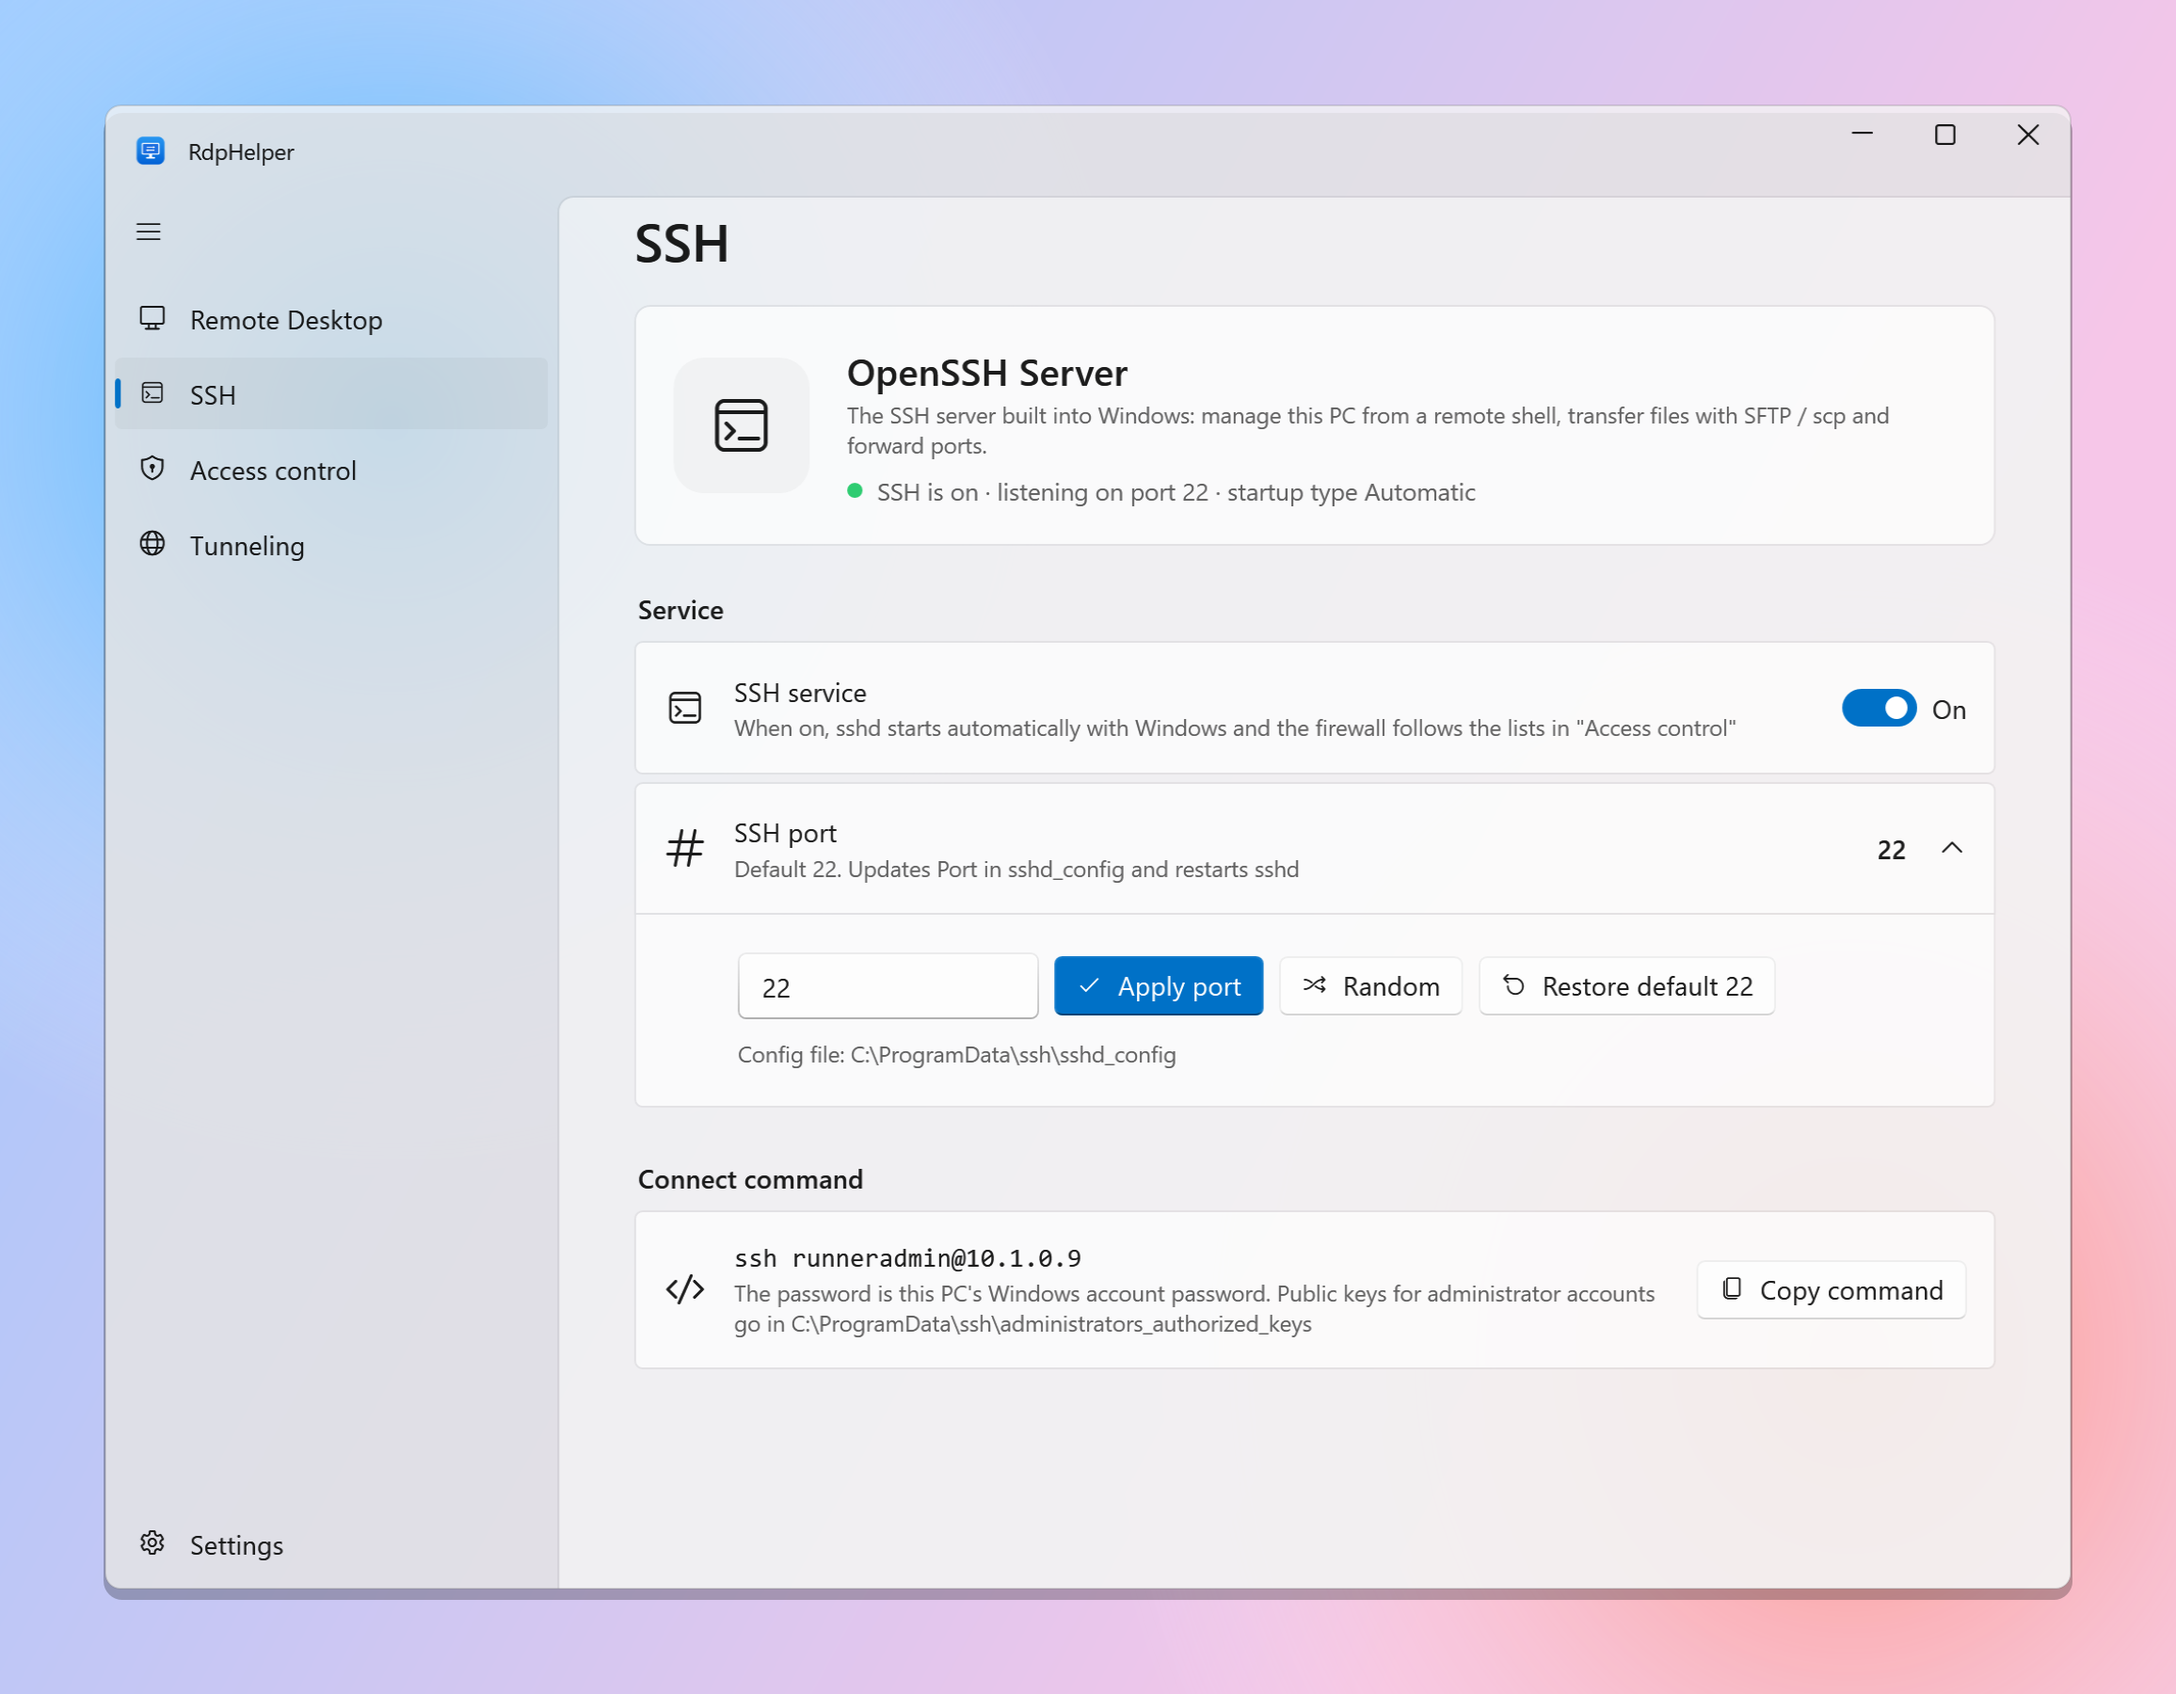
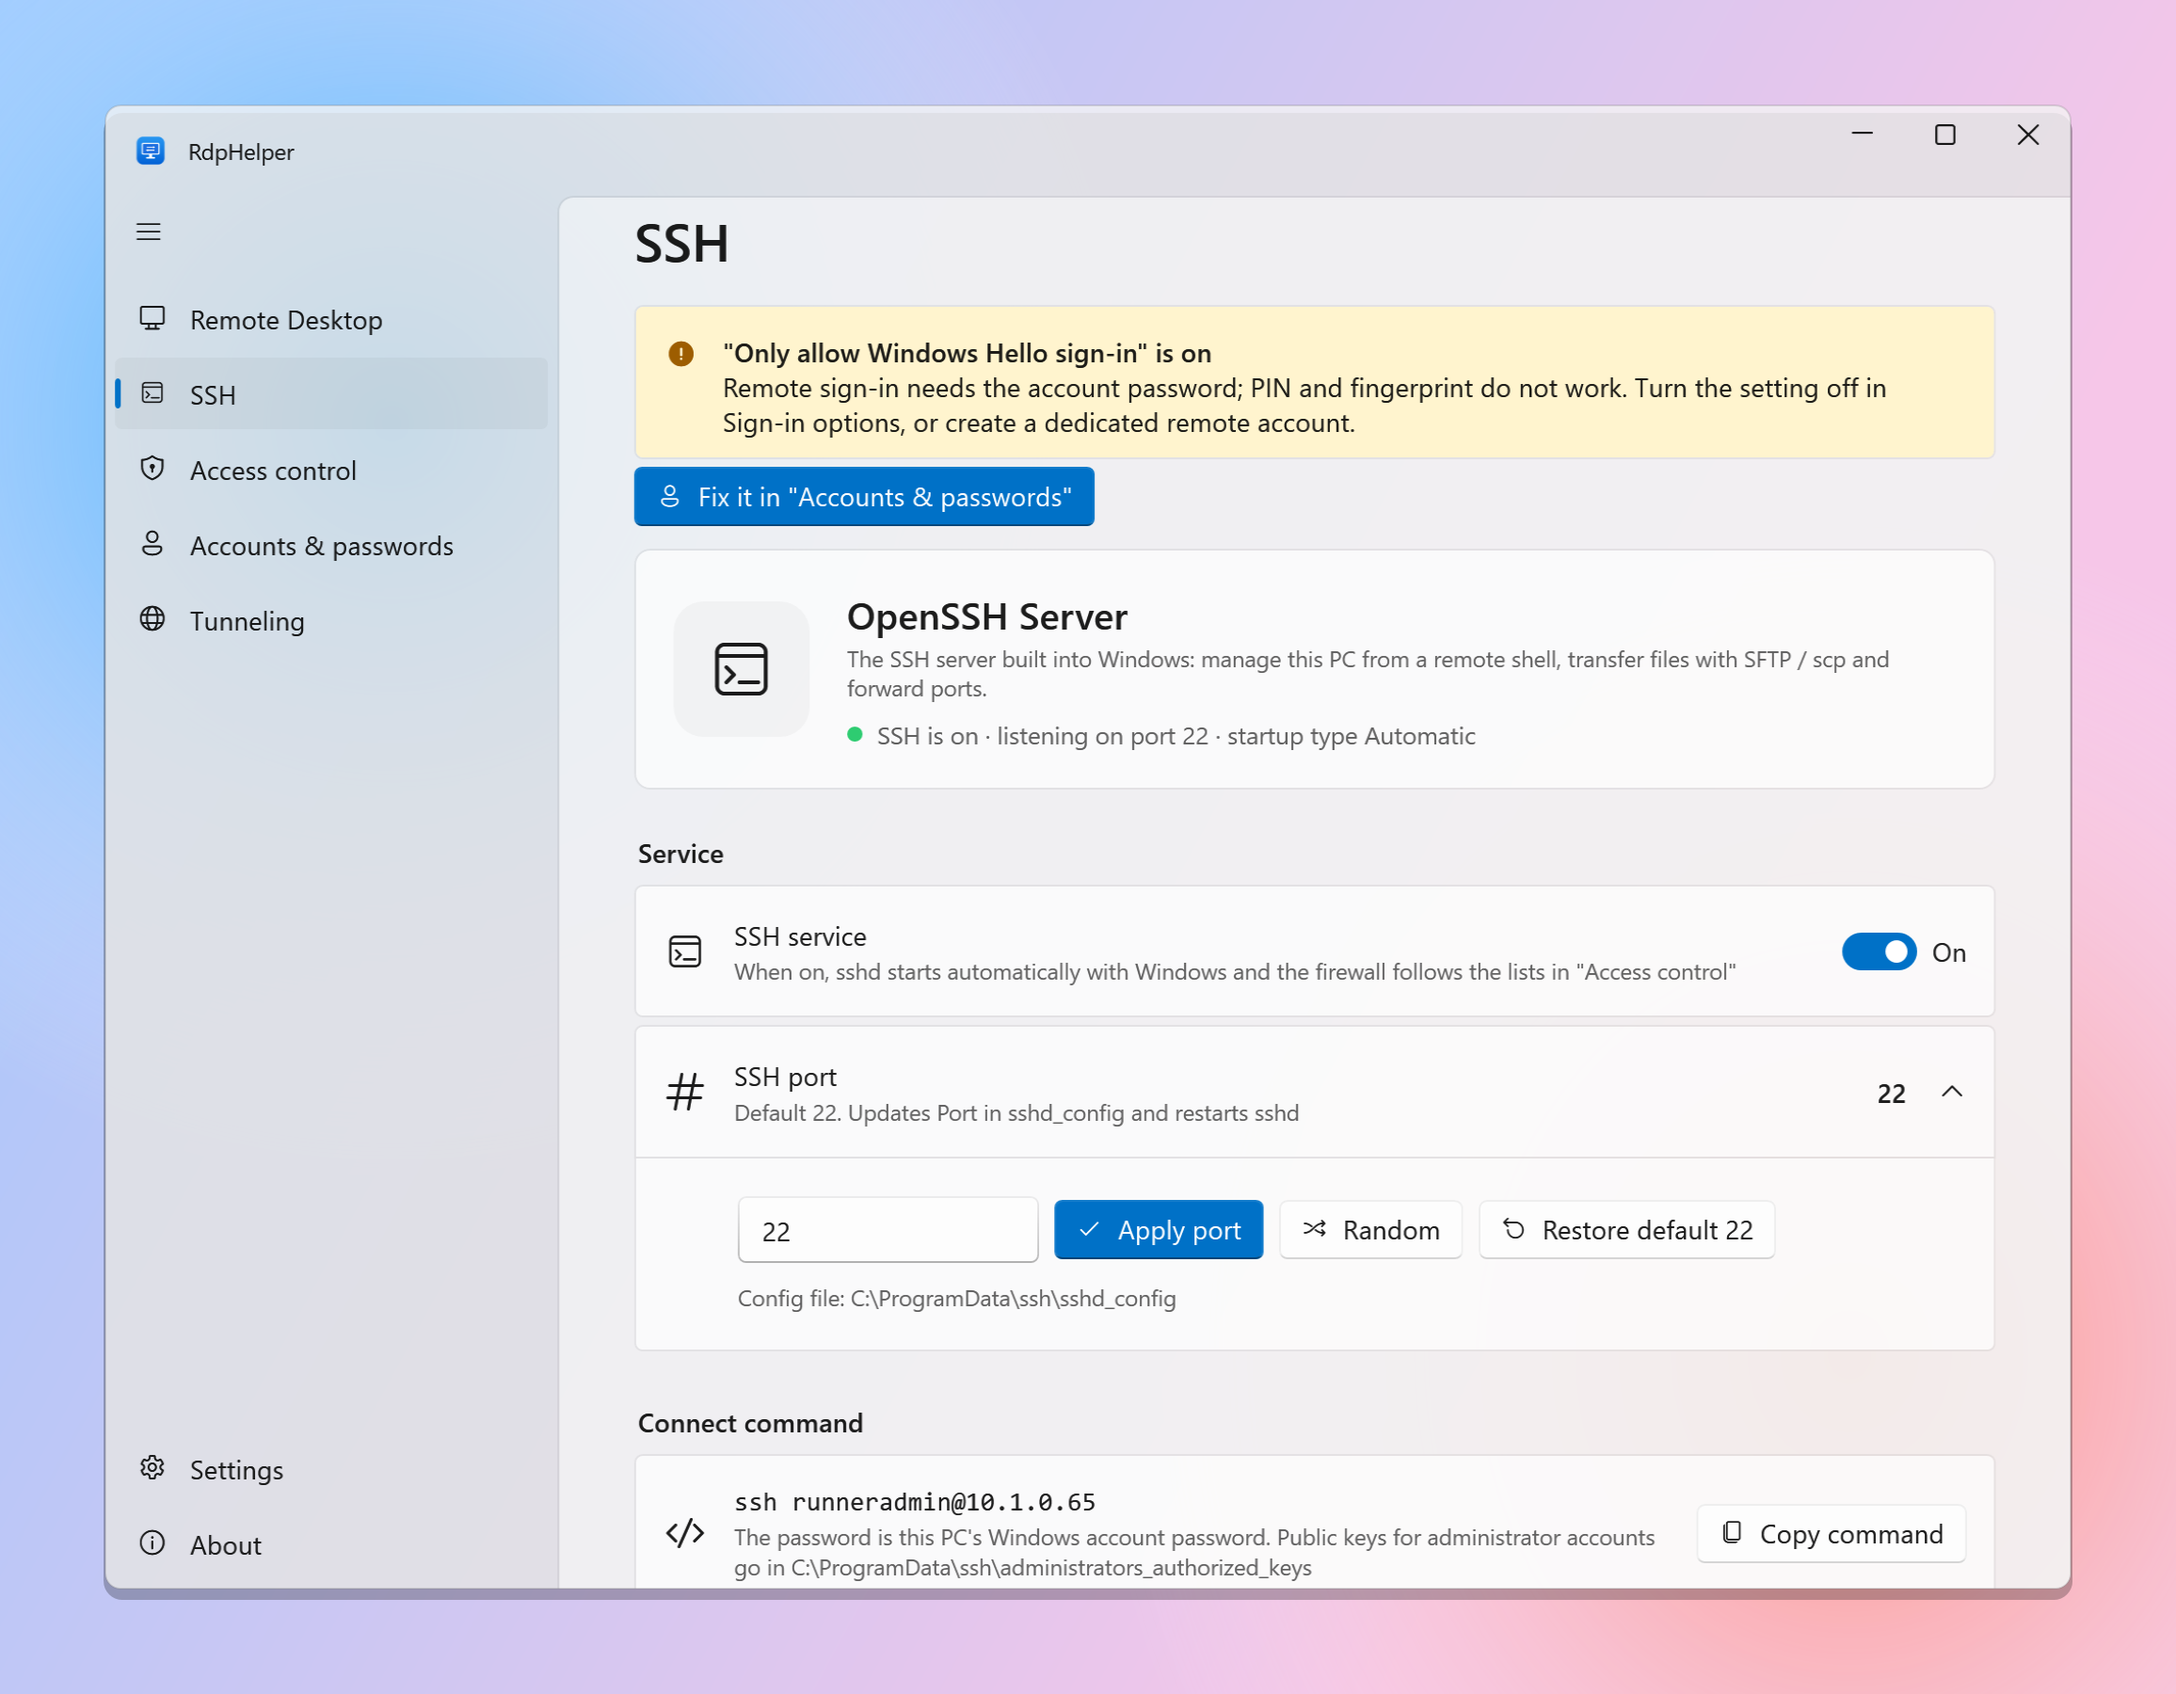
「仅允许 Windows Hello」只对微软账户提示（本地账户误报）；README：账户与密码、关于页、常见问题；更新截图

diff --git a/src/RdpHelper/Services/AccountService.cs b/src/RdpHelper/Services/AccountService.cs
@@ -62,7 +62,8 @@ public static class AccountService
         }
 
         bool admin = kind != AccountKind.Domain ? IsLocalAdmin(user) : new WindowsPrincipal(WindowsIdentity.GetCurrent()).IsInRole(WindowsBuiltInRole.Administrator);
-        _cached = new CurrentAccount(user, kind, hasPassword, admin, IsPasswordlessOnly());
+        // 「仅允许 Windows Hello」只作用于微软账户，新装系统默认就是开着的；本地账户不受影响，不提示
+        _cached = new CurrentAccount(user, kind, hasPassword, admin, kind == AccountKind.Microsoft && IsPasswordlessOnly());
         return _cached;
     }
 

diff --git a/src/RdpHelper/Testing/SelfTest.cs b/src/RdpHelper/Testing/SelfTest.cs
@@ -225,6 +225,7 @@ public static class SelfTest
         await Run("当前账户检测", async () =>
         {
             var me = await AccountService.GetCurrentAsync();
+            Assert(!(me.Kind == AccountKind.Local && me.PasswordlessOnly), "本地账户不应提示「仅允许 Windows Hello」");
             return $"{me.User} kind={me.Kind} hasPassword={me.HasPassword} admin={me.IsAdmin} passwordlessOnly={me.PasswordlessOnly} RDP 组={AccountService.RdpUsersGroup}";
         });
 

diff --git a/README.md b/README.md
@@ -16,7 +16,7 @@ Win11 设置风格 · 亚克力毛玻璃 · 单文件免依赖
 [![Platform](https://img.shields.io/badge/platform-Windows%2010%20%7C%2011%20%7C%20Server-0078D6?style=flat-square&logo=windows&logoColor=white)](#-系统要求)
 [![.NET](https://img.shields.io/badge/.NET-8.0-512BD4?style=flat-square&logo=dotnet&logoColor=white)](https://dotnet.microsoft.com/)
 [![WPF-UI](https://img.shields.io/badge/UI-WPF--UI%20Fluent-5C2D91?style=flat-square)](https://github.com/lepoco/wpfui)
-[![Self-test](https://img.shields.io/badge/self--test-28%20passed-brightgreen?style=flat-square)](#-自动化测试)
+[![Self-test](https://img.shields.io/badge/self--test-33%20passed-brightgreen?style=flat-square)](#-自动化测试)
 [![Stars](https://img.shields.io/github/stars/Flowers-hurt/RdpHelper?style=flat-square&logo=github)](https://github.com/Flowers-hurt/RdpHelper/stargazers)
 
 **简体中文** | [English](README.en.md)
@@ -55,6 +55,10 @@ Win11 设置风格 · 亚克力毛玻璃 · 单文件免依赖
 | | ngrok | Authtoken 一键写入，得到 `tcp://x.tcp.ngrok.io:端口` |
 | | bore | 开源极简，公共服务器 `bore.pub`，免注册 |
 | | 远程桌面 / SSH 均可穿透 | 子进程挂在 Job Object 上，程序退出必定一起结束 |
+| 👤 **账户与密码** | 空密码 / 微软账户检测 | 没设密码时 Windows 拒绝远程登录，远程桌面页和 SSH 页会直接提示 |
+| | 给当前账户设置密码 | 本地账户一键设置；微软账户跳转官网修改 |
+| | 远程专用账户 | 自定义用户名和密码，自动加入远程桌面用户组，可禁用 / 重置密码 / 删除 |
+| | SSH 公钥免密码登录 | 粘贴对方公钥即可；可关闭 SSH 密码登录，防暴力破解 |
 | 🎨 **界面** | Win11 Fluent 设计 | 仿系统「设置」，导航 + 卡片 + 开关 |
 | | 毛玻璃 | 亚克力 / 云母 / 云母 Alt 可切换；浅色 / 深色 / 跟随系统 |
 | | 🌐 中英双语 | 设置里切换「跟随系统 / 简体中文 / English」，立即生效；复制给别人的连接信息也随语言输出 |
@@ -97,6 +101,15 @@ Win11 设置风格 · 亚克力毛玻璃 · 单文件免依赖
 | :-: | :-: |
 | <img src="docs/screenshots/ssh-light.png" /> | <img src="docs/screenshots/access-dark.png" /> |
 | <img src="docs/screenshots/tunnel-dark.png" /> | <img src="docs/screenshots/settings-light.png" /> |
+
+</details>
+
+<details>
+<summary>账户与密码 / 关于页</summary>
+
+| 账户与密码 | 关于（作者、贡献者、检查更新、开源许可） |
+| :-: | :-: |
+| <img src="docs/screenshots/accounts-light.png" /> | <img src="docs/screenshots/about-dark.png" /> |
 
 </details>
 
@@ -359,6 +372,24 @@ RdpHelper/
 </details>
 
 ## ❓ 常见问题
+
+<details>
+<summary><b>远程密码能不能自定义？电脑没密码为什么连不上？</b></summary>
+
+远程桌面和 SSH 都用 **Windows 账户** 登录，这是系统机制，没有单独的「远程密码」。Windows 也 **不允许空密码账户远程登录**（对方会一直提示密码错误）。在「账户与密码」页可以：
+
+- 给当前本地账户设置密码（微软账户请用邮箱 + 微软账户密码，PIN 码不能用于远程）；
+- 创建 **远程专用账户**，用户名和密码自己定，不影响你的账户，用完禁用或删除；
+- 让 SSH 使用 **公钥免密码登录**，并可关闭 SSH 密码登录。
+
+</details>
+
+<details>
+<summary><b>软件需要一直开着吗？</b></summary>
+
+不需要。远程桌面 / SSH 的开关、端口和 IP 名单都写在系统里（注册表、系统服务、防火墙），退出软件、重启电脑都有效。只有 **内网穿透** 需要软件保持运行。卸载软件时会自动恢复普通的防火墙放行规则，已开启的远程桌面 / SSH 卸载后照样能连。
+
+</details>
 
 <details>
 <summary><b>家庭版能用吗？</b></summary>

diff --git a/README.en.md b/README.en.md
@@ -16,7 +16,7 @@ Windows 11 Settings look · Acrylic glass · Single self-contained exe
 [![Platform](https://img.shields.io/badge/platform-Windows%2010%20%7C%2011%20%7C%20Server-0078D6?style=flat-square&logo=windows&logoColor=white)](#-requirements)
 [![.NET](https://img.shields.io/badge/.NET-8.0-512BD4?style=flat-square&logo=dotnet&logoColor=white)](https://dotnet.microsoft.com/)
 [![WPF-UI](https://img.shields.io/badge/UI-WPF--UI%20Fluent-5C2D91?style=flat-square)](https://github.com/lepoco/wpfui)
-[![Self-test](https://img.shields.io/badge/self--test-28%20passed-brightgreen?style=flat-square)](#-automated-testing)
+[![Self-test](https://img.shields.io/badge/self--test-33%20passed-brightgreen?style=flat-square)](#-automated-testing)
 
 [简体中文](README.md) | **English**
 
@@ -52,6 +52,10 @@ The installer ships **no tunneling binaries**; they are fetched from their offic
 | | ngrok | Authtoken setup, `tcp://x.tcp.ngrok.io:port` |
 | | bore | Open source, public `bore.pub` relay, no account |
 | | RDP or SSH | Child processes live in a Job Object and die with the app |
+| 👤 **Accounts** | Blank password / Microsoft account detection | Windows refuses remote sign-in without a password; the RDP and SSH pages warn you |
+| | Set the account password | One click for local accounts; Microsoft accounts link to the website |
+| | Dedicated remote account | Your own user name and password, added to Remote Desktop Users; disable / reset / delete |
+| | SSH public keys | Paste their key for password-less SSH; optionally disable SSH password auth |
 | 🎨 **UI** | Fluent design | NavigationView + cards like Windows Settings |
 | | Glass | Acrylic / Mica / Mica Alt; light / dark / system |
 | | 🌐 Bilingual | English / 简体中文 / follow system, switches instantly; shared connection info follows the language |
@@ -69,6 +73,8 @@ The installer ships **no tunneling binaries**; they are fetched from their offic
 | <img src="docs/screenshots/en/settings-dark.png" /> | <img src="docs/screenshots/en/remote-light.png" /> |
 | **Installing OpenSSH (progress kept across pages)** | **Home edition: upgrade to Pro (simulated on CI)** |
 | <img src="docs/screenshots/ssh-installing.png" /> | <img src="docs/screenshots/en/home-remote-dark.png" /> |
+| **Accounts & passwords** | **About** |
+| <img src="docs/screenshots/en/accounts-light.png" /> | <img src="docs/screenshots/en/about-dark.png" /> |
 
 ## 📦 Download
 
